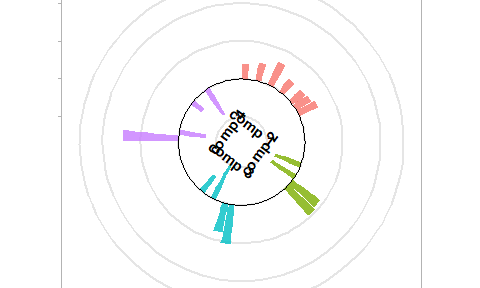
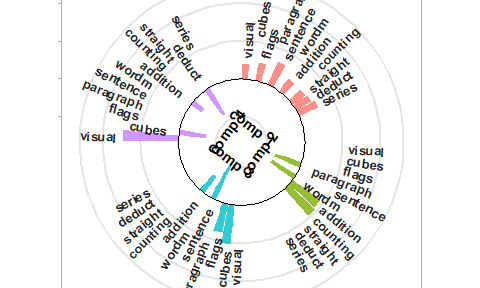
minor fix

diff --git a/README.md b/README.md
@@ -87,7 +87,10 @@ holzinger_scales
 ```
 
 ### Preliminary PCA
-Running PCA is not a requirement, however for small datasets, it can be useful to inspect the dense solutions. 
+
+Running PCA is not a requirement, however for small datasets, it can be
+useful to inspect the dense solutions.
+
 ``` r
 ho_pca = pca(holzinger, screeplot =  TRUE, qq_plot = TRUE)
 summary(ho_pca, cols = 10)
@@ -181,7 +184,7 @@ show_correlations(ho_spca)
 #> sPC-PC  0.98  0.95  0.92  0.76
 ```
 
-the sparse weights can be compared to the full PCA weights with
+The sparse weights can be compared to the full PCA weights with
 `compare_spca`
 
 ``` r
@@ -209,7 +212,8 @@ by side.
 Circular:
 
 ``` r
-plot(ho_spca, plot_type = "c") # "c" for "circular"
+plot(ho_spca, plot_type = "c",     # "c" for "circular"
+     controls = list(variable_names = "auto"))
 ```
 
 ![](man/figures/README-circular-1.png)<!-- -->
@@ -271,7 +275,8 @@ compare_spca(obj_list = list(ho_spca, ho_spca90),
 The default settings provide a practical starting point for most
 analyses. Forward selection is recommended for routine use; stepwise and
 intensive selection are more suitable for smaller problems, while
-backward elimination can be expensive. The power method is mainly useful
+backward elimination can be expensive. The power method may be
+inaccurate, especially for higher order components, and is mainly useful
 for large matrices.
 
 | Setting | Small | Medium | Large |
